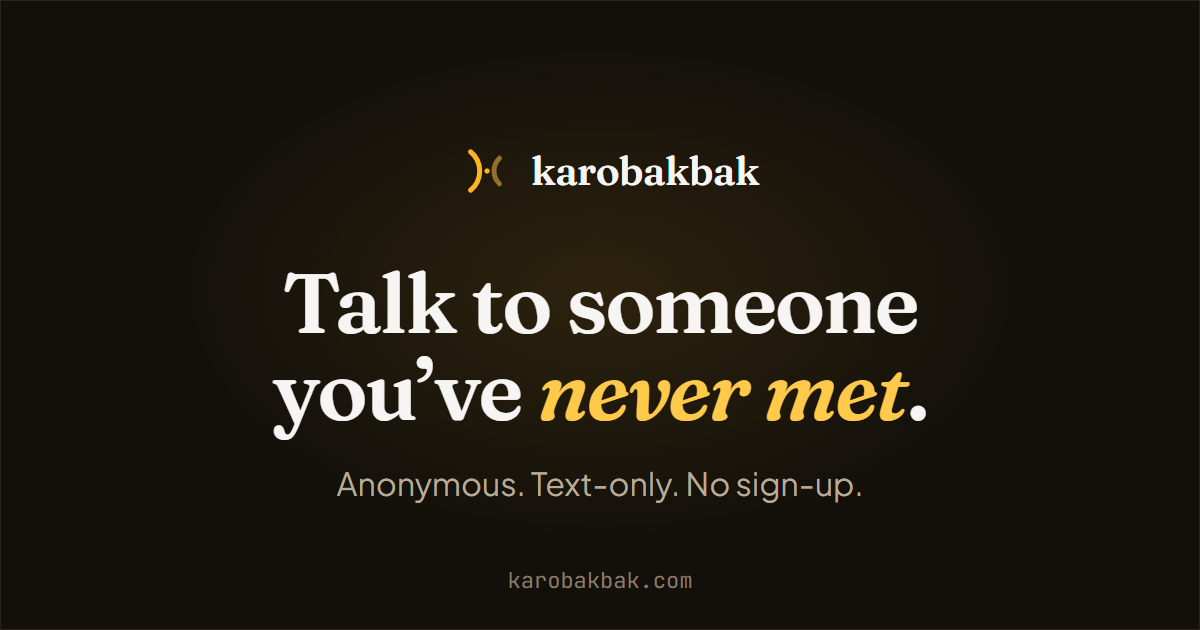
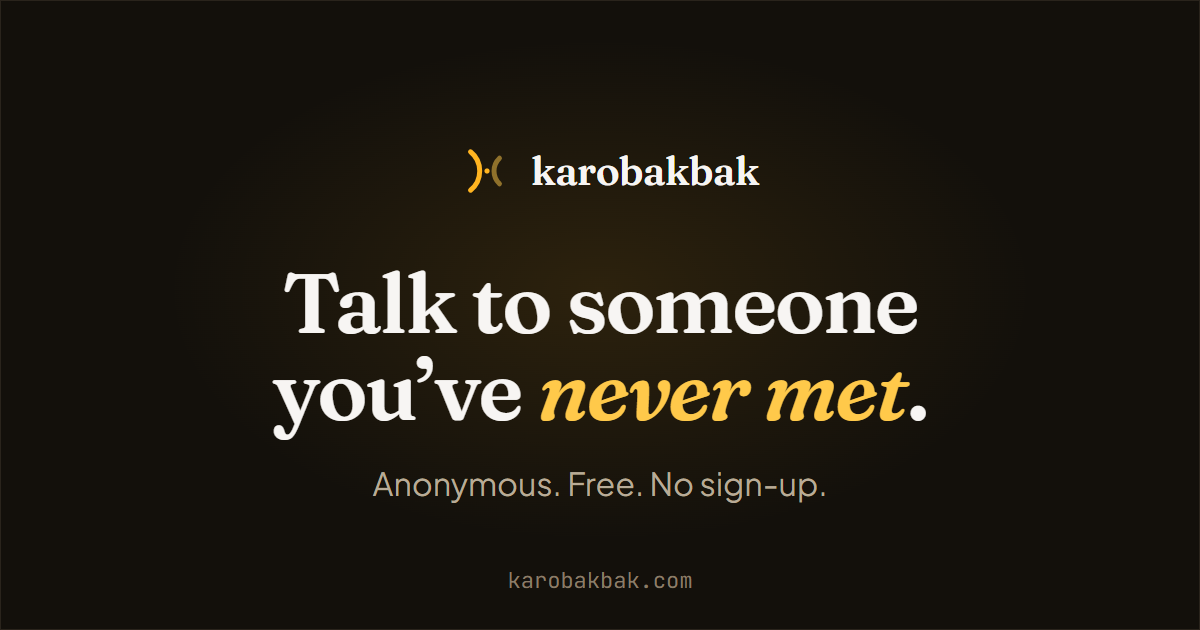
feat(frontend): stop describing the product as text only
Photos and voice calls are planned, and a search title, a link-preview card
and an About section built on "text only" would all need rewriting the day
either ships, after Google and every chat app had cached them. The public copy
now sells what stays true: anonymous, free, no sign-up, no app.

Changed: the page title and descriptions in index.html and meta.ts, the Open
Graph image (re-rendered), the About section and its specimen label, and the
FAQ answer on photos, which now says "Not yet." The product itself is still
text only; nothing in the protocol or DESIGN.md section 23 moves.

Adds docs/launch/GETTING-FOUND.md, the step-by-step playbook for listings,
outreach and search, written to the same rule.

Claude-Session: https://claude.ai/code/session_01Cgom48CKgqZsHbXjT3CNvj

Changed region(s): [[0.2775, 0.754, 0.7092, 0.8143]]

diff --git a/frontend/index.html b/frontend/index.html
@@ -6,10 +6,10 @@
     <link rel="icon" type="image/svg+xml" href="/favicon.svg" />
     <!-- Matches the page background, so mobile browser chrome does not flash white. -->
     <meta name="theme-color" content="#13100b" />
-    <title>karobakbak — Anonymous random text chat with strangers</title>
+    <title>karobakbak — Anonymous random chat with strangers</title>
     <meta
       name="description"
-      content="Talk to someone you've never met. Free, anonymous, text-only random chat — no sign-up, no app."
+      content="Talk to someone you've never met. Free, anonymous random chat. No sign-up, no app."
     />
     <!--
       Link previews (WhatsApp, Instagram, Facebook, X, Discord, Slack).
@@ -31,7 +31,7 @@
     <meta property="og:title" content="karobakbak — Talk to someone you've never met" />
     <meta
       property="og:description"
-      content="Free, anonymous, text-only random chat. No sign-up, no app — open it and start talking."
+      content="Free, anonymous random chat. No sign-up, no app. Open it and start talking."
     />
     <meta property="og:image" content="https://karobakbak.com/og-image.png" />
     <meta property="og:image:type" content="image/png" />
@@ -39,14 +39,14 @@
     <meta property="og:image:height" content="630" />
     <meta
       property="og:image:alt"
-      content="karobakbak: Talk to someone you've never met. Anonymous. Text-only. No sign-up."
+      content="karobakbak: Talk to someone you've never met. Anonymous. Free. No sign-up."
     />
     <meta property="og:locale" content="en_IN" />
     <meta name="twitter:card" content="summary_large_image" />
     <meta name="twitter:title" content="karobakbak — Talk to someone you've never met" />
     <meta
       name="twitter:description"
-      content="Free, anonymous, text-only random chat. No sign-up, no app — open it and start talking."
+      content="Free, anonymous random chat. No sign-up, no app. Open it and start talking."
     />
     <meta name="twitter:image" content="https://karobakbak.com/og-image.png" />
 

diff --git a/frontend/src/content/pages.ts b/frontend/src/content/pages.ts
@@ -149,14 +149,13 @@ const ABOUT: StaticPage = {
       ],
     },
     {
-      heading: 'Text only, on purpose',
+      heading: 'Just the conversation',
       body: [
-        'karobakbak is currently built around text conversations.',
-        'Keeping the experience focused on text makes the product simpler and gives us fewer ' +
-          'types of content to deal with. It also means you can have a conversation without ' +
-          'sharing your face, your voice or an image of yourself.',
-        'We may add other ways to communicate in the future. If we do, we will explain what ' +
-          'changes and what it means for you.',
+        'karobakbak is built around the conversation itself.',
+        'Nothing to set up, nothing to show. You can talk to someone without sharing your ' +
+          'face, your voice or an image of yourself.',
+        'We will add more ways to talk over time. When we do, we will explain what changes ' +
+          'and what it means for you.',
       ],
     },
     {

diff --git a/frontend/src/meta.ts b/frontend/src/meta.ts
@@ -25,15 +25,15 @@ const SUFFIX = ' — karobakbak';
 
 export const PAGE_META: Readonly<Record<string, PageMeta>> = {
   '/': {
-    title: 'karobakbak — Anonymous random text chat with strangers',
+    title: 'karobakbak — Anonymous random chat with strangers',
     description:
-      "Talk to someone you've never met. Free, anonymous, text-only random chat — no sign-up, no app.",
+      "Talk to someone you've never met. Free, anonymous random chat. No sign-up, no app.",
     indexable: true,
   },
   '/about': {
     title: `About${SUFFIX}`,
     description:
-      'What karobakbak is: a text-only random chat for talking to strangers, built to be anonymous and simple.',
+      'What karobakbak is: a random chat for talking to strangers, built to be anonymous and simple.',
     indexable: true,
   },
   '/how-it-works': {

diff --git a/frontend/src/components/AboutPage.tsx b/frontend/src/components/AboutPage.tsx
@@ -167,7 +167,7 @@ function TextOnlySpecimen(): JSX.Element {
 
       <div className="mt-2 flex items-center justify-between gap-3 border-t border-ink-800 pt-3.5">
         <span className="font-mono text-[13px] uppercase tracking-[0.14em] text-ink-400">
-          text only
+          anonymous
         </span>
         <button
           type="button"
@@ -208,7 +208,7 @@ export function AboutPage(): JSX.Element {
 
   const short = section('The short version');
   const why = section('Why it exists');
-  const textOnly = section('Text only, on purpose');
+  const textOnly = section('Just the conversation');
   const anonymous = section('Anonymous, with an important distinction');
   const automated = section('Some conversations are with automated accounts');
   const adults = section('Adults only');

diff --git a/frontend/src/content/faq.ts b/frontend/src/content/faq.ts
@@ -176,9 +176,9 @@ export const FAQ: StaticPage = {
     {
       heading: 'Can I send photos or videos?',
       body: [
-        'No.',
-        'The chat currently supports text messages only. Photos, videos and other file uploads ' +
-          'are not supported.',
+        'Not yet.',
+        'Photos, videos and other file uploads are not supported right now. When we add new ' +
+          'ways to share, we will update this answer and explain what changes.',
       ],
     },
     {

diff --git a/docs/brand/og-card.html b/docs/brand/og-card.html
@@ -110,7 +110,7 @@
         <span>karobakbak</span>
       </div>
       <h1>Talk to someone<br />you’ve <em>never met</em>.</h1>
-      <p>Anonymous. Text-only. No sign-up.</p>
+      <p>Anonymous. Free. No sign-up.</p>
       <div class="url">karobakbak.com</div>
     </div>
   </body>
